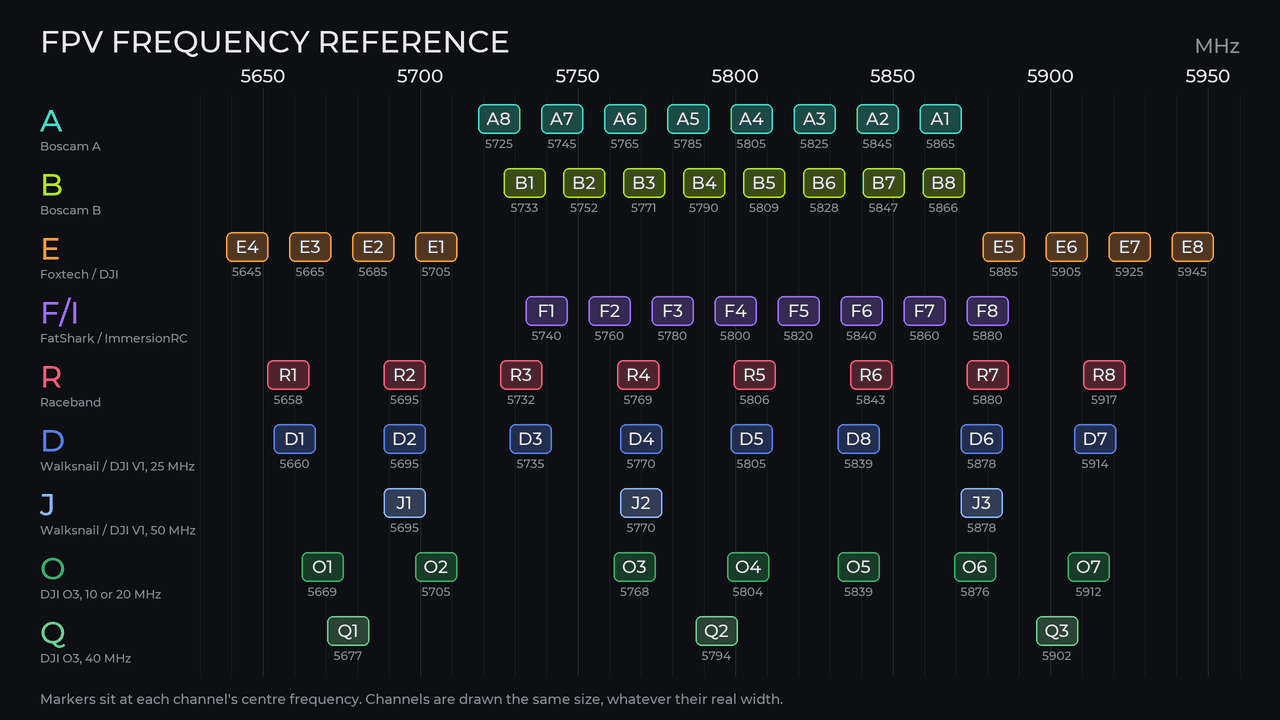
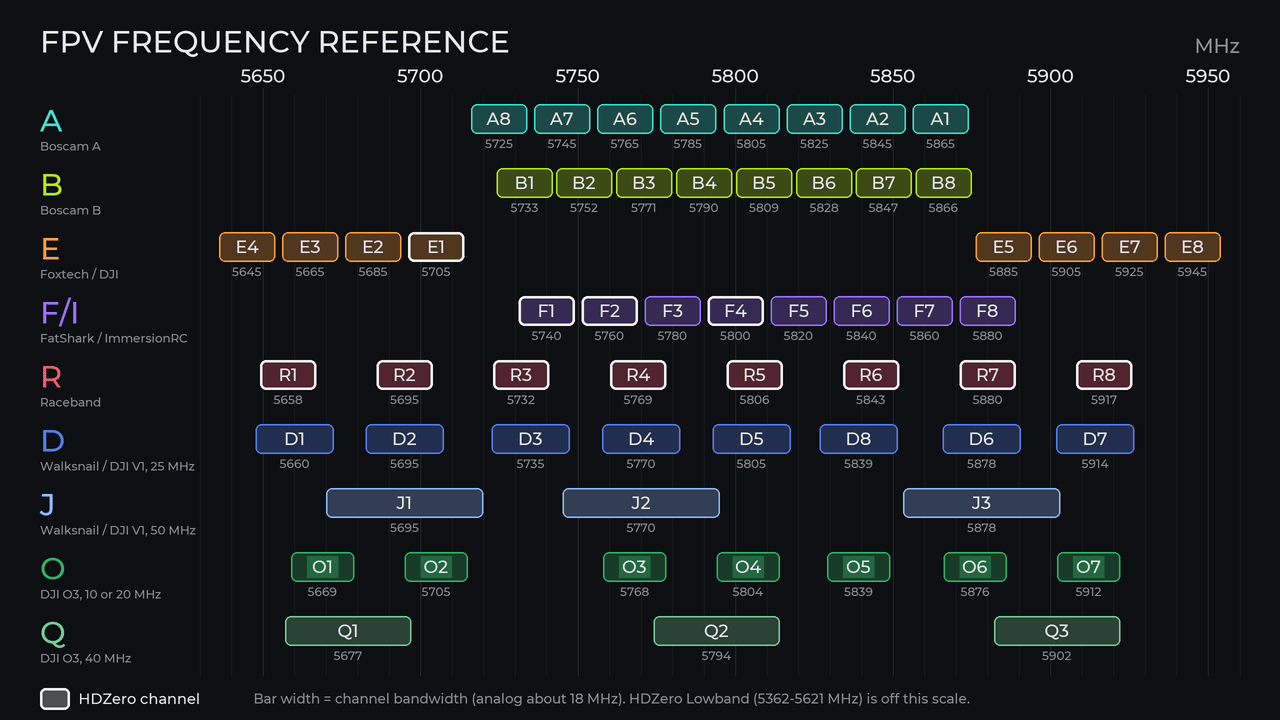
Frequency Chart: channels drawn at their real width, HDZero outlined
Each channel is now a bar of its real bandwidth on the frequency axis
(analog about 18 MHz, D 25, J 50, O 20 with a 10 MHz core, Q 40) instead of
a fixed-size marker. The HDZero channels (R1-R8, E1, F1, F2, F4, as in the
firmware) get a white outline, with a legend. 128 colors keep the band
hues exact; the HD and FHD images are about 148 KB together.

diff --git a/utilities/gen_freq_chart.py b/utilities/gen_freq_chart.py
@@ -8,8 +8,8 @@ Montserrat (the UI font, in utilities/font).
 
     python3 utilities/gen_freq_chart.py OUT_DIR    # writes OUT_DIR/freq_chart_{hd,fhd}.png
 
-Then shrink them (64 colors keeps the band hues right):
-    pngquant --quality=85-100 --colors 64 --speed 1 --strip -o freq_chart.png freq_chart_hd.png
+Then shrink them (128 colors keeps the band hues right):
+    pngquant --quality=70-100 --colors 128 --speed 1 --strip -o freq_chart.png freq_chart_hd.png
 """
 import os
 import sys
@@ -31,25 +31,35 @@ def numbered(letter, freqs):
     return [("%s%d" % (letter, i + 1), f) for i, f in enumerate(freqs)]
 
 
-# key, row label, colour, descriptor, [(channel name, MHz), ...]
+# Channel width in MHz per band, drawn to scale. Analog video occupies about
+# 18 MHz; the digital plans use their nominal bandwidth (DJI O3 "10 or 20 MHz"
+# is drawn as 20 MHz with a 10 MHz core).
+ANALOG_BW = 18
+
+# HDZero channels, from the goggle firmware (src/core/scan_core.c, osd.c):
+# Raceband R1-R8 plus E1, F1, F2 and F4. Outlined in white on the chart.
+HDZERO = {("R", i) for i in range(1, 9)} | {("E", 1), ("F", 1), ("F", 2), ("F", 4)}
+HDZ_WHITE = (245, 245, 245)
+
+# key, row label, colour, descriptor, width MHz, inner core MHz, [(channel name, MHz), ...]
 BANDS = [
-    ("A", "A", (64, 224, 208), "Boscam A",
+    ("A", "A", (64, 224, 208), "Boscam A", ANALOG_BW, 0,
      numbered("A", [5865, 5845, 5825, 5805, 5785, 5765, 5745, 5725])),
-    ("B", "B", (181, 230, 29), "Boscam B",
+    ("B", "B", (181, 230, 29), "Boscam B", ANALOG_BW, 0,
      numbered("B", [5733, 5752, 5771, 5790, 5809, 5828, 5847, 5866])),
-    ("E", "E", (255, 160, 64), "Foxtech / DJI",
+    ("E", "E", (255, 160, 64), "Foxtech / DJI", ANALOG_BW, 0,
      numbered("E", [5705, 5685, 5665, 5645, 5885, 5905, 5925, 5945])),
-    ("F", "F/I", (160, 112, 255), "FatShark / ImmersionRC",
+    ("F", "F/I", (160, 112, 255), "FatShark / ImmersionRC", ANALOG_BW, 0,
      numbered("F", [5740, 5760, 5780, 5800, 5820, 5840, 5860, 5880])),
-    ("R", "R", (255, 92, 122), "Raceband",
+    ("R", "R", (255, 92, 122), "Raceband", ANALOG_BW, 0,
      numbered("R", [5658, 5695, 5732, 5769, 5806, 5843, 5880, 5917])),
-    ("D", "D", (84, 128, 240), "Walksnail / DJI V1, 25 MHz",
+    ("D", "D", (84, 128, 240), "Walksnail / DJI V1, 25 MHz", 25, 0,
      numbered("D", [5660, 5695, 5735, 5770, 5805, 5878, 5914, 5839])),
-    ("J", "J", (140, 186, 255), "Walksnail / DJI V1, 50 MHz",
+    ("J", "J", (140, 186, 255), "Walksnail / DJI V1, 50 MHz", 50, 0,
      numbered("J", [5695, 5770, 5878])),
-    ("O", "O", (52, 178, 102), "DJI O3, 10 or 20 MHz",
+    ("O", "O", (52, 178, 102), "DJI O3, 10 or 20 MHz", 20, 10,
      numbered("O", [5669, 5705, 5768, 5804, 5839, 5876, 5912])),
-    ("Q", "Q", (118, 204, 150), "DJI O3, 40 MHz",
+    ("Q", "Q", (118, 204, 150), "DJI O3, 40 MHz", 40, 0,
      numbered("Q", [5677, 5794, 5902])),
 ]
 
@@ -95,24 +105,36 @@ def render(w, h):
     for f in range(5650, 5951, 50):
         d.text((fx(f), y_axis - px(8)), str(f), font=font(28), fill=TEXT, anchor="ms")
 
-    def channel(cx, y, name, freq, color):
-        bw, bh = px(64), px(44)
+    ppm = (x1 - x0) / float(F_MAX - F_MIN)  # pixels per MHz
+
+    def channel(cx, y, name, freq, color, bw_mhz, core_mhz, hdzero):
+        bw, bh = int(bw_mhz * ppm), px(44)
         box = [cx - bw // 2, y, cx + bw // 2, y + bh]
-        d.rounded_rectangle(box, radius=px(9), fill=mix(color, BG, 0.28), outline=color,
-                            width=max(2, px(2)))
+        d.rounded_rectangle(box, radius=px(9), fill=mix(color, BG, 0.28),
+                            outline=HDZ_WHITE if hdzero else color,
+                            width=max(2, px(4 if hdzero else 2)))
+        if core_mhz:
+            cw = int(core_mhz * ppm)
+            d.rectangle([cx - cw // 2, y + px(6), cx + cw // 2, y + bh - px(6)],
+                        fill=mix(color, BG, 0.55))
         d.text((cx, y + bh // 2), name, font=font(26), fill=TEXT, anchor="mm")
         d.text((cx, y + bh + px(4)), str(freq), font=font(18), fill=DIM, anchor="ma")
 
-    for r, (_key, label, color, desc, channels) in enumerate(BANDS):
+    for r, (key, label, color, desc, bw_mhz, core_mhz, channels) in enumerate(BANDS):
         y = y_rows + r * pitch
         d.text((px(60), y + px(2)), label, font=font(46), fill=color)
         d.text((px(60), y + px(58)), desc, font=font(15), fill=DIM)
-        for name, f in channels:
-            channel(fx(f), y + px(6), name, f, color)
+        for i, (name, f) in enumerate(channels):
+            channel(fx(f), y + px(6), name, f, color, bw_mhz, core_mhz, (key, i + 1) in HDZERO)
 
-    d.text((px(60), y_end + px(22)),
-           "Markers sit at each channel's centre frequency. Channels are drawn the same size, whatever their real width.",
-           font=font(20), fill=DIM)
+    # legend
+    ly = y_end + px(18)
+    d.rounded_rectangle([px(60), ly, px(60) + px(44), ly + px(32)], radius=px(8),
+                        fill=mix(HDZ_WHITE, BG, 0.28), outline=HDZ_WHITE, width=max(2, px(4)))
+    d.text((px(118), ly + px(16)), "HDZero channel", font=font(22), fill=TEXT, anchor="lm")
+    d.text((px(380), ly + px(16)),
+           "Bar width = channel bandwidth (analog about 18 MHz). HDZero Lowband (5362-5621 MHz) is off this scale.",
+           font=font(20), fill=DIM, anchor="lm")
 
     return img.resize((w, h), Image.LANCZOS)
 

diff --git a/README.md b/README.md
@@ -74,8 +74,9 @@ One "Tools" page groups small utilities that used to be separate menu entries or
 
 - **Focus Chart**: fullscreen focus test pattern. Click again to dismiss.
 - **Frequency Chart**: fullscreen reference of the 5.8 GHz band plans on a linear frequency axis: the
-  analog bands A, B, E, F/I and R, and the digital D, J, O and Q plans of the Walksnail / DJI systems. It is
-  an original drawing generated by `utilities/gen_freq_chart.py`. Click again to dismiss.
+  analog bands A, B, E, F/I and R, and the digital D, J, O and Q plans of the Walksnail / DJI systems. Each
+  channel is drawn at its centre frequency with its real bandwidth, and the HDZero channels are outlined in
+  white. It is an original drawing generated by `utilities/gen_freq_chart.py`. Click again to dismiss.
 - **RSSI Scanner** (Goggle 2 and Box Pro only): sweeps the built-in analog receiver and plots the RF energy
   per frequency, so activity shows up even when nothing is a valid HDZero signal. Linear frequency axis,
   mV scale that auto-ranges from a 640-1200 mV base and widens when a reading falls outside it, and
